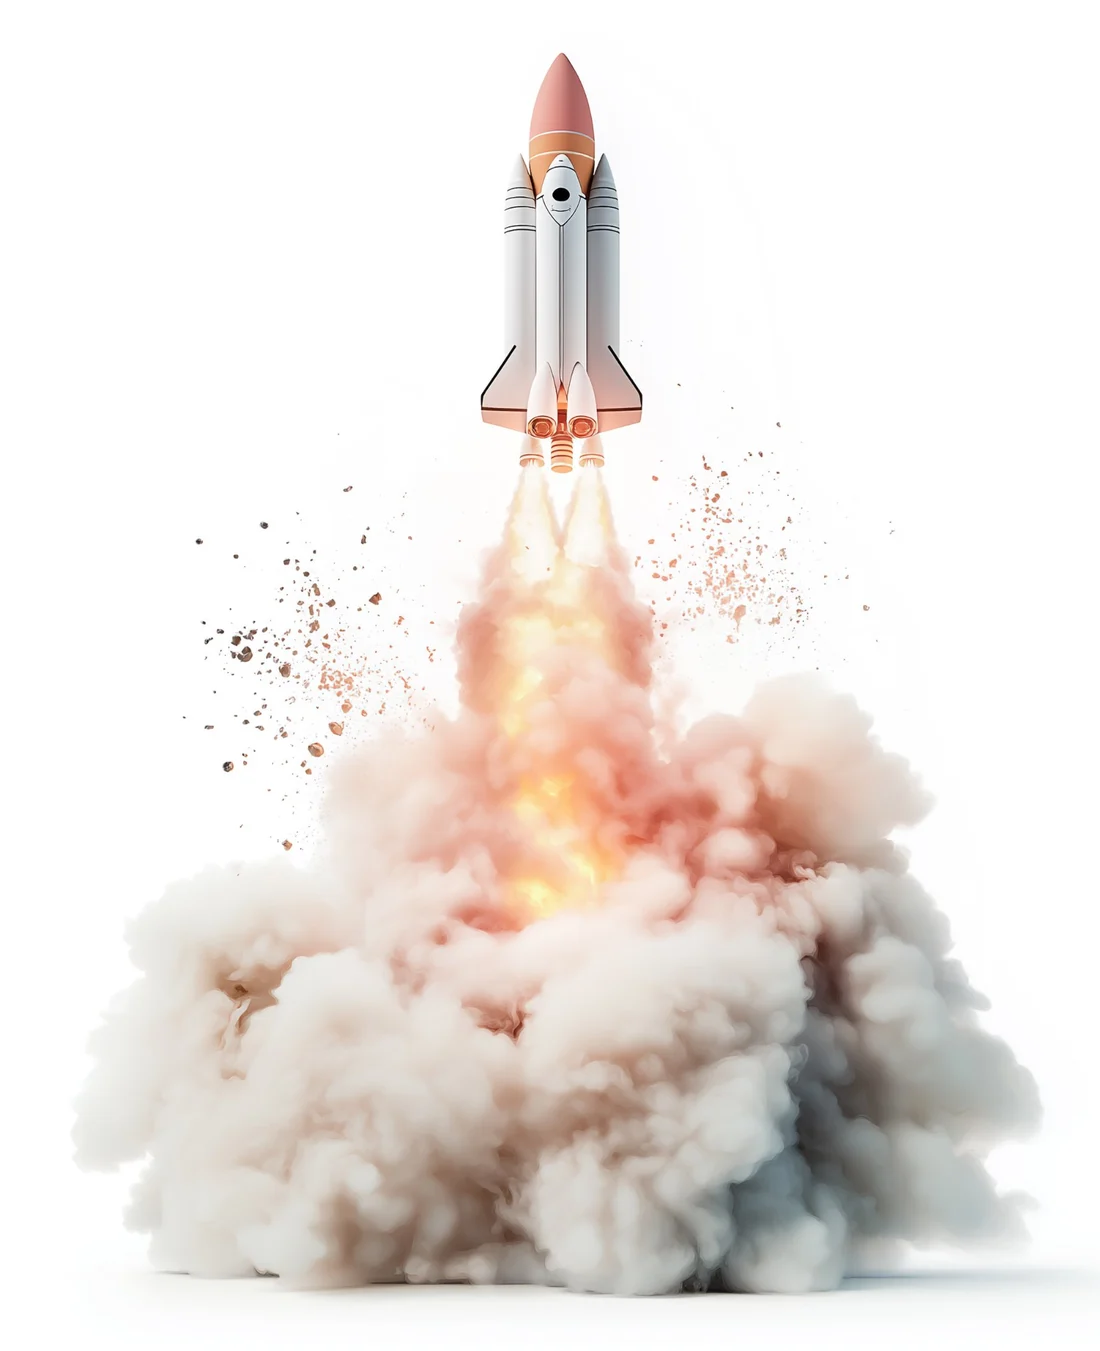
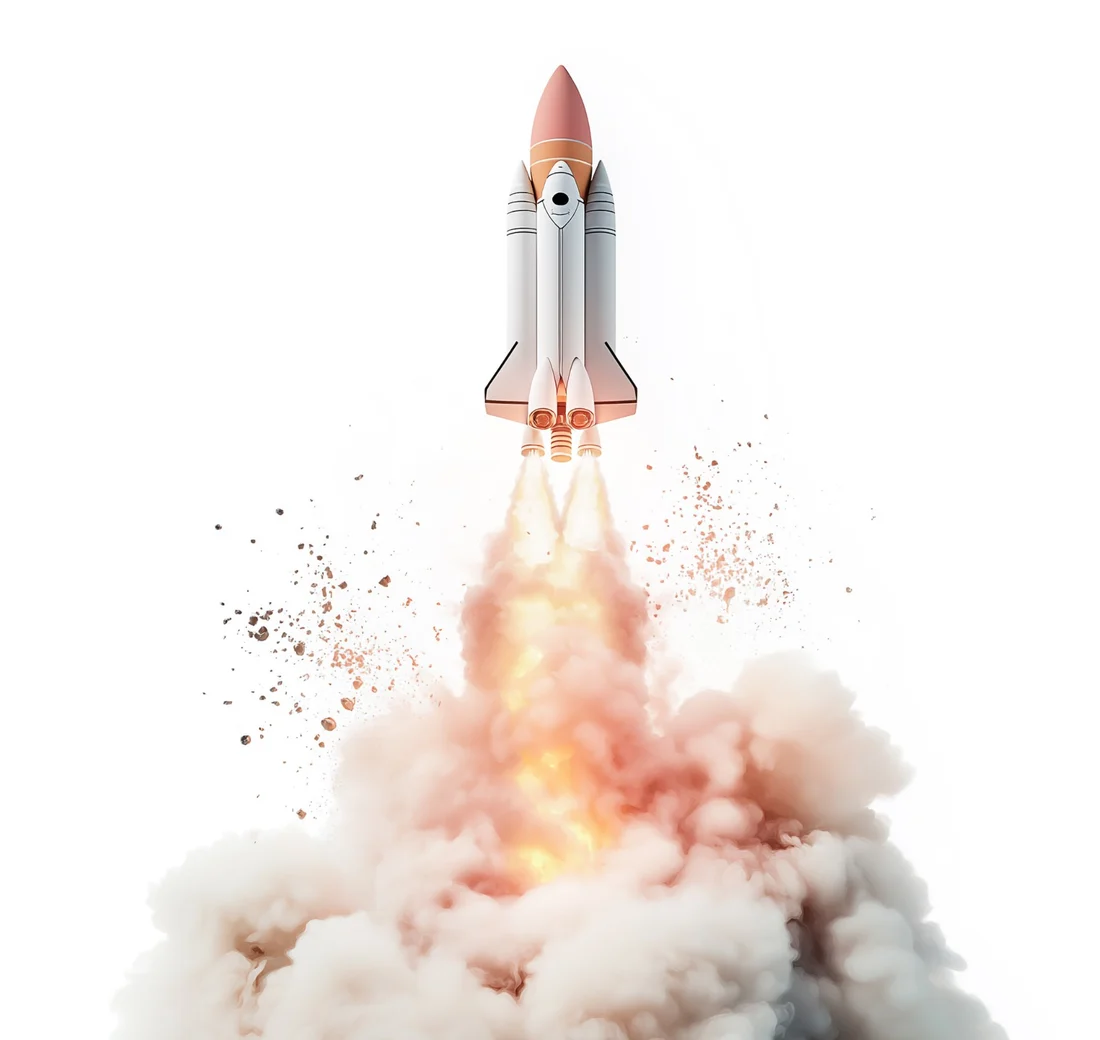
Mensagem central: foguete parado com a fumaça cortada na borda da seção
- Remove a animação de subida ao rolar.
- Novo recorte da imagem com a fumaça cortada embaixo; a imagem encosta na
  borda inferior da seção (desktop e mobile).
- Versão dos assets: 2026.10.10-4.

Claude-Session: https://claude.ai/code/session_01AMSrtvrY6Fw4PFgawtPhTF

diff --git a/css/migsummit.css b/css/migsummit.css
@@ -246,8 +246,7 @@ a{ color:inherit; }
 }
 /* mobile/tablet: texto antes da imagem na Mensagem central */
 @media (max-width:900px){
-  .message__visual{ order:2; margin-top:calc(-1 * var(--space-4)); }
-  .message__visual img{ max-width:17rem; }
+  .message__visual{ order:2; margin-top:var(--space-4); }
 }
 
 /* --- sobre --- */
@@ -392,18 +391,18 @@ a{ color:inherit; }
 }
 
 
+.message{ padding-bottom:0; overflow:hidden; }
 .message__grid{ display:grid; grid-template-columns:minmax(0,5fr) minmax(0,7fr); gap:var(--space-8) clamp(var(--space-8), 6vw, var(--space-20)); align-items:center; }
-.message__inner{ max-width:none; }
-.message__visual{ margin:0; display:flex; justify-content:center; }
-.message__visual img{ width:100%; max-width:30rem; height:auto; mix-blend-mode:multiply; -webkit-mask-image:linear-gradient(to right, transparent, #000 6%, #000 94%, transparent), linear-gradient(to bottom, #000 90%, transparent); -webkit-mask-composite:source-in; mask-image:linear-gradient(to right, transparent, #000 6%, #000 94%, transparent), linear-gradient(to bottom, #000 90%, transparent); mask-composite:intersect; }
-@supports (animation-timeline: view()){
-  @media (prefers-reduced-motion:no-preference){
-    .message__visual img{ animation:liftoff linear both; animation-timeline:view(); animation-range:cover 0% cover 100%; }
-    @keyframes liftoff{ from{ transform:translateY(8%); } to{ transform:translateY(-8%); } }
-  }
-}
+.message__inner{ max-width:none; padding-bottom:var(--section-gap); }
+/* foguete parado, com a fumaça cortada pela borda inferior da seção */
+.message__visual{ margin:0; display:flex; justify-content:center; align-self:end; }
+.message__visual img{ display:block; width:100%; max-width:32rem; height:auto; mix-blend-mode:multiply; -webkit-mask-image:linear-gradient(to right, transparent, #000 8%, #000 92%, transparent); mask-image:linear-gradient(to right, transparent, #000 8%, #000 92%, transparent); }
 .message__quote p{ font-size:clamp(1.75rem, 3vw, 2.875rem); }
-@media (max-width:900px){ .message__grid{ grid-template-columns:1fr; } .message__visual img{ max-width:20rem; } }
+@media (max-width:900px){
+  .message__grid{ grid-template-columns:1fr; }
+  .message__inner{ padding-bottom:0; }
+  .message__visual img{ max-width:22rem; }
+}
 
 /* --- faq --- */
 .faq__grid{ display:grid; grid-template-columns:repeat(12, minmax(0,1fr)); gap:var(--space-8) var(--space-6); }

diff --git a/index.html b/index.html
@@ -13,7 +13,7 @@
 <meta name="twitter:card" content="summary_large_image">
 <link rel="preload" as="image" href="assets/img/kv-mobile.webp" media="(max-width: 767px)">
 <link rel="preload" as="image" href="assets/img/kv-full.webp" imagesrcset="assets/img/kv-full-1200.webp 1200w, assets/img/kv-full.webp 1920w" imagesizes="100vw" media="(min-width: 768px)">
-<link rel="stylesheet" href="css/migsummit.css?v=2026.10.10-3">
+<link rel="stylesheet" href="css/migsummit.css?v=2026.10.10-4">
 </head>
 <body>
 <a class="skip" href="#conteudo">Pular para o conteúdo</a>
@@ -164,7 +164,7 @@
   <!-- MENSAGEM CENTRAL (texto do cliente) -->
   <section class="section message" data-theme="light" aria-labelledby="msg-title">
     <div class="container message__grid">
-      <figure class="message__visual" aria-hidden="true"><img src="assets/img/rocket-launch.webp" alt="" width="1100" height="1351" loading="lazy"></figure>
+      <figure class="message__visual" aria-hidden="true"><img src="assets/img/rocket-launch.webp" alt="" width="1100" height="1040" loading="lazy"></figure>
       <div class="message__inner">
       <span class="eyebrow" id="msg-title">Mensagem central</span>
       <blockquote class="message__quote reveal">
@@ -251,6 +251,6 @@
   </div>
 </footer>
 
-<script src="js/migsummit.js?v=2026.10.10-3" defer></script>
+<script src="js/migsummit.js?v=2026.10.10-4" defer></script>
 </body>
 </html>
